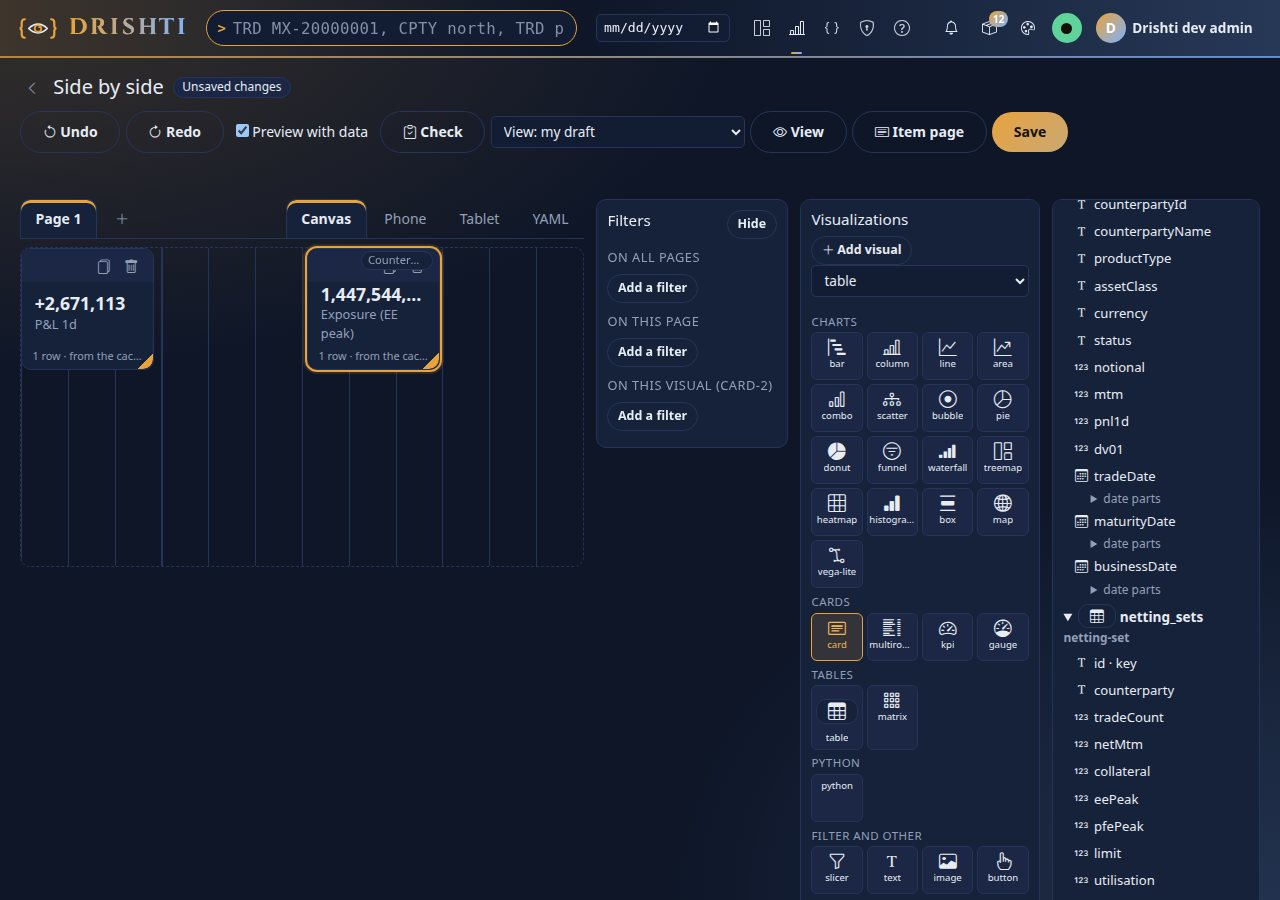
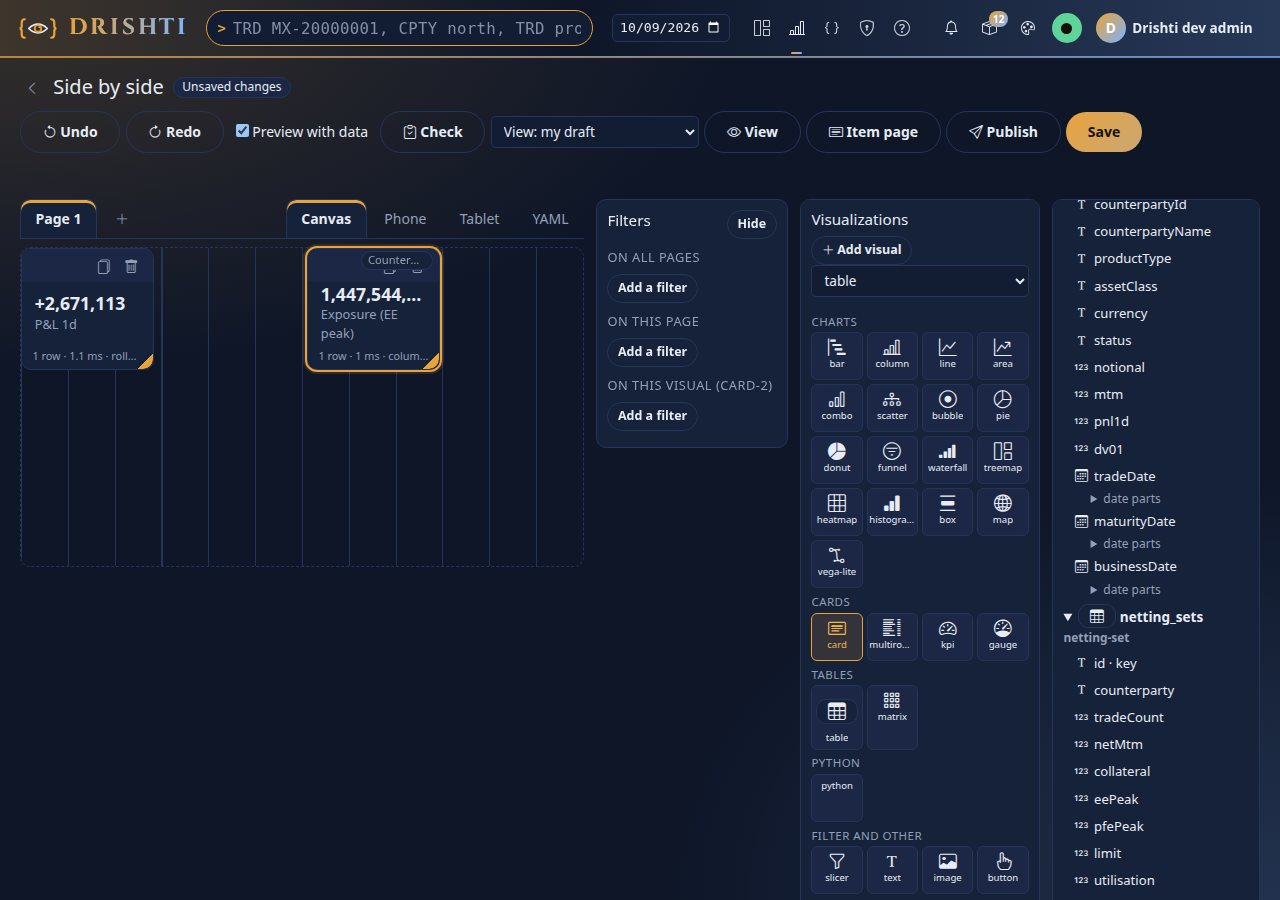
Docs: round 3 and final pass, tutorial 18 lake and composed draft, changelog under 2.1.0, picture 21

diff --git a/tools/docs/shots/t18.py b/tools/docs/shots/t18.py
@@ -237,7 +237,10 @@ def promote(c: Ctx):
     c.page.click("#bxT-python")
     c.page.locator("[data-cells=python] [data-promote]").first.wait_for(timeout=30000)
     print("  promote buttons:", c.page.eval_on_selector_all("[data-cells=python] [data-promote]", "els => els.map(e => e.getAttribute('data-promote'))"))
-    c.page.locator('[data-cells=python] [data-promote="visual"]').nth(1).click()
-    c.page.wait_for_timeout(2500)
-    c.page.evaluate("window.scrollTo(0, 0)")
-    c.save("21-promote-visual.jpg", clip={"x": 240, "y": 56, "width": 1040, "height": 400})
+    button = c.page.locator('[data-cells=python] [data-promote="visual"]').nth(1)
+    button.click()
+    c.page.locator("[data-cells=python] .bi-near [data-promoted-link]").first.wait_for(timeout=30000)      # the answer is beside the button that asked
+    button.scroll_into_view_if_needed()
+    c.page.wait_for_timeout(500)
+    box = c.page.locator("[data-cells=python] .bi-near").first.bounding_box()
+    c.save("21-promote-visual.jpg", clip={"x": 240, "y": max(0, box["y"] - 160), "width": 1040, "height": 400})

diff --git a/CHANGELOG.md b/CHANGELOG.md
@@ -15,13 +15,13 @@
 -->
 # Changelog
 
-## Unreleased
-
+## 2.1.0 — The BI long tail, a multi-day type-ahead index, safe install and uninstall (2026-10-12)
+- **BI adversarial QA, round 3 and the final pass.** *One title:* a dataset, report, board or notebook has the same title on its item, in its header and in its YAML after every save: rename the item and the YAML's `title:` follows, rename the `title:` in the YAML (designer, wizard, item Edit) and the item follows (`BiTitles`, in `updateItem` and `createItem`; Analyse opens a notebook under its item's title). *Private workspaces:* an item in *My workspace* shows **Publish** disabled with "Move it to a shared workspace to publish" and a Move button, and **Publish…** in both designers says the same in place. *Approving:* a steward outside the item's audience who approves gets "Approved and published. It is now visible to its audience; you are not in it." and a link to the inbox, not a script error; an item nobody may see shows only the not-found message. *Analyse:* fits 390 px with long notebook and report titles; opening a notebook restores the Dataset and Notebook selects and its ticked fields; the default ticks include the numeric columns (`mtm`, `pnl1d`, `notional`); a Promote answers beside its button (one message, never also at the top) with an *Open the draft* link, promoting the same cell or slice again offers **Update that draft** or **Save another**; a SQL-promoted report is titled "<dataset title> SQL" with a readable lower-case id; **Promote to a Transform** is shown disabled with "Add a second extract first". *Designers:* **Ctrl+S** saves from the YAML editors (report, board, the dataset wizard's YAML) and never opens the browser's Save dialog; *Saved as a draft* is one message beside the button; the board **Check** summary counts the draft-report warnings the panel lists (and the badge hides at zero); the board toolbar's View select is inline; the Designer's samples list boards as well as reports; a refused drop no longer marks *Unsaved changes*; *Also add* leaves out the main dataset. *Workspaces:* a new **dataset** can also be created by pasting YAML (for experts) next to *Open the dataset wizard*. *Small:* a value that rounds to zero shows `0.00`, never `-0.00`; the top bar's buttons are 44 px on a phone; the business-date box is filled on every page (a failed business-date call from the sign-in page used to be cached for a minute for everyone); the Tutorials card counts the tutorials it finds.
+- **Packs, connectors and artifacts, final pass:** Admin → Packs shows *Changed* and the deploy history in the page's zone with its label (as Connectors and Artifacts do); **Unload** is disabled, with "Needed by ...: unload those first" in the row, while another pack builds on the pack (and the refusal is no longer followed by "the list is out of date"); a pack made by the New pack wizard needs `>=2.0.0` (what its features need), not the version of the server that built it; Artifacts shows a connector "with a warning" at the same level and label as Connectors; "which is not loaded (not loaded)" says it once; **Delete permanently** stays disabled until the exact name is typed.
 - **BI adversarial QA, round 2:** *Refresh now* on a dataset whose data ends before the business date no longer builds an empty layer that every later query then read: it falls back to the latest date the source holds and says `warning: 0 rows for <date>; latest data <date>` (status `warning`), and a query never serves an empty layer as the latest. A double-clicked **Propose** proposes once and tells the reviewers once; **Publish is hidden and refused (DRS-9004) while an item is proposed**; a composed dataset's join that repeats rows is now an **error** (DRS-9015) unless it says `allow-repeat: true` (then a warning, and the Model view marks the join); a dataset over a connector that does not exist is "has errors". Also: the alert prefill name is inside the allowed characters and the rule shows beside the field, the alert form shows the report, page and visual titles, the range slicer shows From and To side by side and hints at an inverted range, a PDF line or area chart is drawn as lines with its table capped (`pdf-chart-rows`), Analyse SQL promote accepts implicit aliases and links the draft, converting a visual uses the styled confirm and clears format keys the new type does not read, the report's Business date shows the top bar day with a *Data as of* note, a frozen designer looks switched off and no longer says *Visual deleted*, a design error card has Retry, YAML syntax errors say the line, column and reason (not `reader`), export status messages replace each other, a certified item has no Promote, a connector due now says *retrying now*, Subscribe errors show beside the button, and the dataset page's messages sit apart from their buttons.
 
 - **Packs and connectors, adversarial QA:** a connector that runs but is down shows *down, retrying* (and one with unreadable lines, or whose dated folders are all after today, *running, with a warning* with the sentence on the row), in the list, the page, the pack's Data source panel and the CLI; the editor shows errors beside Save and on the field, focuses it, disables Save while saving, masks secret fields, says when Test did not try, hides Test and Save on History and shows history times in the page's zone; one way out for a file connector (Uninstall, restorable); Admin → Packs and Connectors poll every 5 seconds and offer Refresh; Sutra problems with file:line on the pack row and page; `pack.yaml` syntax errors say line and column and are not retried; versions are X.Y.Z in the wizard, `pack bundle|make` and the deploy check; no duplicate kept version on a same-version redeploy and no rollback to the running one; the packs list names template and route connectors and fills Changed; Switch off, Unload, Load and Deploy use the styled dialog; a configuration-named pack can only be disabled (said up front); the wizard keeps its work across Back and reload and defaults JSON Lines kinds to the File connector; Admin lists are cards on a phone with the intro folded; each Admin page tells a non-admin its own sentence; an explicitly empty `packs: []` means no packs (documented).
 - **Fixed:** an Analyse Python cell on the server or in the browser threw "show is not a function" (the SQL result drawer shadowed the Python one); the admin BI file links are 44 px on touch; the region-economy sample documents carry a `retrievedAt` (the compile date of the illustrative set); browser tests follow the Chart page, the last-hour line, the rollup name in the live footer and the Vega-Lite visual.
-## 2.1.0 — The BI long tail, a multi-day type-ahead index, safe install and uninstall (2026-10-12)
 - **Added: tutorial 18, Several datasets in one report** (`docs/tutorials/18-several-datasets-in-one-report.md`, 21 pictures from `tools/docs/shots/t18.py`, seven data files in `docs/tutorials/data/`): a report over two datasets with links (a slicer and a click carry across, an unlinked country does not, a wrong ISO-3 to ISO-2 link gives an empty visual), the inflated total of a row join (P&L 5.1 times, exposure 42.8 times) against per-grain sums, a composed dataset with its `DRS-9014`/`DRS-9015` checks, the same as a Python Transform, two readers (rita, hana) filtered before the join, the join in Analyse promoted to a visual or a Transform, and an honest Power BI comparison. All numbers and outputs were captured from a real stack.
 - **Added and fixed: the board designer, "view as readers see it", visual ids, feedback beside controls and Back after sign-in (adversarial QA, deferred items).** (1) The board designer's report list includes **your own draft reports**, marked *(draft)* (`GET /bi/boards/reports`); their tiles draw for the author, say so on their face, and **publishing or proposing a board that names a draft report is refused** (`DRS-9052`, naming the report; force does not help); the same visual added twice warns beside *Add tile* instead of blocking; Check on a board with no tiles says **"add a tile"** in plain words (the empty-page problem is now `this page has no tiles yet: add a tile ...`); dragging a tile by its header or corner keeps the Column/Row/Wide/High fields in step (a browser test drags both). (2) A **View** menu in both designers: *my draft* or *as readers see it (published)*, greyed until published; `GET /bi/items/{id}/published` and `?as=published` read the published version of what a call opens, with the caller's own masks, and the page shows a banner with the version. (3) A **visual id follows its type** on conversion for any made-up id (`card-1`, `slicer-1`, `visual-3`) and the bookmarks, phone and tablet layouts and `tests:` that named the old id follow it (Undo restores both). (4) **Feedback beside the control** for the catalogue and home favourite star, item page actions (propose, publish, approve, reject, withdraw, promote, certify, delete, duplicate, move), workspace delete-selected, add member and the review box, the report page's Export (now fetched, so a refusal is said beside the button), Subscribe and Alert me (a note when the screen's filters were too long to carry), a dataset page's query, refresh and schedule, and the designers' Check and Save. (5) **Back after sign-in:** `GET /login` while signed in answers `303` to `next` or home and is never cached, and the sign-in POST already answers `303`, so Back from the landing page does not show the form again; the sign-in model is unchanged. Docs: BOARDS.md 6, 7, 9, 11, REPORTS.md, BI_GUIDE.md, API_GUIDE.md.
 - **Fixed and added: saving and editing safely in the BI designers and workspaces (adversarial QA).** A save names the saved state it started from (`etag`/`baseEtag`); a stale save is refused with **`DRS-9007`** (409) and the report designer, board designer, Model view, wizard in edit mode and item Edit form offer **Reload theirs / Save mine as a copy / Overwrite with mine**. **Propose, Approve and Publish refuse a report that cannot be drawn** (`DRS-9030`, errors listed; a bi-admin may force it, audited); **one bad visual is one error card** and the others draw (no page-wide `DRS-9034`). Proposed items open read-only with a banner and **Withdraw to edit**; the item page names who can approve and notifies them, hides Edit while proposed, and asks before removing a member (a warning for yourself). Designer: **+ Add visual**, palette drag onto the canvas, a confirmation before a type change drops wells, ids follow the type, **Publish/Propose** as a real action, a collapsible Filters pane, phone panes as tabs and an icon toolbar, double-click a page tab to rename, YAML errors block leaving the YAML tab, a copied sample drops its licence header, a new filter starts on the selected visual's field. Dataset wizard: history per step, a leave guard, a draft kept in the session and restored after a refresh (**Discard draft**), edit mode opens on an overview with jump buttons, errors with a jump link to their step, a sensible default workspace. New report forms take a **Main dataset** plus **Also add**, list unusable datasets greyed with the reason and put **Add dataset** at the top of the Fields pane (`GET /bi/datasets?drafts=1`). Shared helpers put feedback beside the control and disable buttons while a request is in flight; Subscribe keeps the BI links and searches recipients; the shipped workspace no longer shows the server path. [BI_GUIDE](docs/guides/BI_GUIDE.md), [REPORTS.md section 9 and 16](docs/guides/REPORTS.md), [BI_GOVERNANCE.md section 3](docs/guides/BI_GOVERNANCE.md).

diff --git a/docs/tutorials/18-several-datasets-in-one-report.md b/docs/tutorials/18-several-datasets-in-one-report.md
@@ -26,6 +26,14 @@ About 60 minutes.
 - [Tutorial 10](10-first-bi-report.md) done (reports, workspaces, the shipped *Desk P&L vs counterparty exposure* sample) and [tutorial 14](14-python-and-analyse.md) for Python and Analyse. You sign in as the development administrator, who holds `bi-author`.
 - A token for the command line with the `bi:write` scope ([tutorial 1, step 9](01-first-15-minutes.md#step-9--make-a-token-for-the-command-line)); the commands below read it from `DRISHTI_TOKEN`. Step 7 also uses two colleagues; make them in **Admin → Users** ([tutorial 17](17-run-it-in-production.md)): `rita` with a role `risk` (raw power on, BI power `bi`), and `hana` with a role `desk-head` (raw power **off**, BI power `bi`) and **Desk** `DESK-FX`. The shipped `trading-risk` dataset has a row rule for each of those two role names; nothing else about them is special.
 - The console's Python environment from tutorial 1 (it carries `pandas` and `pyarrow`), for steps 6 and 8.
+- **The one-day lake.** Every number below (`P&L 2671113  MTM 138562638  EE 1447544943`, 750 trades, the sector and counterparty rows) was taken on a lake of **one business day**. Tutorial 1 builds ten days, and then the sums are about ten times larger and the trade counts differ. To get the same numbers, make a one-day lake and point the server at it:
+
+  ```bash
+  uv run --with deltalake --with pyarrow --with pyyaml python tools/packgen/banking/make_data.py --lake data/delta-1day --days 1
+  DRISHTI_DELTA_ROOT=data/delta-1day  # then restart the server
+  ```
+
+  With ten days every step still works and every check (the fan-out, the totals that agree, the refusal) holds; only the digits differ.
 - Files in [data/](data/): [two-datasets.report.yaml](data/two-datasets.report.yaml), [wrong-link.report.yaml](data/wrong-link.report.yaml), [cp-pnl-exposure.dataset.yaml](data/cp-pnl-exposure.dataset.yaml), [counterparty-view.report.yaml](data/counterparty-view.report.yaml), [mtm-vs-exposure.python.yaml](data/mtm-vs-exposure.python.yaml), [cp-pnl-exposure-py.dataset.yaml](data/cp-pnl-exposure-py.dataset.yaml) and [two-extracts.notebook.yaml](data/two-extracts.notebook.yaml). Put them in a shared workspace called **Exposure desk** (a report reads *published* datasets; a draft in your private workspace cannot be published).
 
 ## What you will learn
@@ -69,7 +77,7 @@ Open the **Designer**. The start form asks for a **Main dataset** (the report's 
 
 ![The designer's start form: title Side by side, main dataset Trading and counterparty risk, Also add: Counterparty exposure](img/t18/03-new-report.jpg)
 
-A dataset that cannot be used is listed greyed with the reason (*a draft: publish it first*, *has errors: open it*) instead of hidden. Press **Start designing**.
+A dataset that cannot be used is listed greyed with the reason (*a draft: publish it first*, *has errors: open it*) instead of hidden, and **Also add** never offers the dataset you chose as the main one. The form also asks **Workspace**: choose **Exposure desk**. A report you save in **My workspace** is private; it can be drawn and checked there, but a private workspace cannot publish, so its item page shows **Publish** greyed with *Move it to a shared workspace to publish* and a **Move** button, and the designer's **Publish...** says the same in place. Press **Start designing**.
 
 ![The designer with two cards: P&L 1d of the main dataset, and Exposure (EE peak) with a small tag naming the other dataset](img/t18/04-two-cards.jpg)
 
@@ -107,6 +115,8 @@ $ curl -s -X POST -H "Authorization: Bearer $DRISHTI_TOKEN" -H 'Content-Type: ap
     http://localhost:18480/api/v1/bi/items/bi-82bf63b602/publish
 {"id":"bi-82bf63b602","status":"published","publishedVersion":1, ...}
 ```
+
+**Saving and publishing in the designer.** **Save** (or Ctrl+S, also from the YAML tab) stores the draft and says so beside the button, once. A report in a shared workspace is published from the designer's **Publish...** (it saves first if there are unsaved changes) or from its item page; **neither asks for a note**: the note box is on the item page only (the REST call below sends one). A report you started in **My workspace** is moved first: item page, **Move...**, choose **Exposure desk**, **Move**; then **Publish**. On the command line the workspace is part of the URL, so there is nothing to move.
 
 The id is yours to receive; the commands that follow use `bi-fd0d0420d0`, the id this report had on the stack the outputs came from. Find yours with `python3 tools/drishti.py bi catalogue list --workspace exposure-desk`.
 
@@ -215,7 +225,7 @@ This is also why this tutorial's composed dataset is **per counterparty** and no
 
 ## Step 5 · A composed dataset: MTM and exposure in one visual
 
-A **composed dataset** asks each source dataset a question *as the reader*, grouped to the grain you choose, and joins the answers. Here the shared grain is the **counterparty**. In **My workspace** (or your shared workspace) choose **New item**, kind *dataset*, and paste [cp-pnl-exposure.dataset.yaml](data/cp-pnl-exposure.dataset.yaml); or open the dataset wizard ([tutorial 10, step 13](10-first-bi-report.md#step-13--a-dataset-of-your-own-in-the-wizard)). Publish it, then open its page.
+A **composed dataset** asks each source dataset a question *as the reader*, grouped to the grain you choose, and joins the answers. Here the shared grain is the **counterparty**. In **My workspace** (or your shared workspace) choose **New item**, kind *dataset*, press **Paste YAML** (next to *Open the dataset wizard*, which is the default for everyone else), paste [cp-pnl-exposure.dataset.yaml](data/cp-pnl-exposure.dataset.yaml) and press **Create from the YAML**; or open the dataset wizard ([tutorial 10, step 13](10-first-bi-report.md#step-13--a-dataset-of-your-own-in-the-wizard)). Publish it, then open its page.
 
 ![The Built from other datasets section: source pnl is trading-risk by counterparty id, name and sector with MTM, P&L 1d and Trades; source exposure is counterparty-exposure by counterparty id; a left join on counterparty](img/t18/14-composed-dataset.jpg)
 
@@ -259,7 +269,7 @@ The totals are step 1's, to the unit. Now the report [counterparty-view.report.y
 
 ![A report over the composed dataset: cards for MTM, exposure and MTM per exposure, one bar chart with MTM and exposure by sector, and a table of counterparties](img/t18/16-composed-report.jpg)
 
-You should see MTM and exposure **in one visual**, which step 3 could not give you, and the ratio. Without the ids, in the designer, **Make a composed dataset from these** (the Links panel, step 3) writes a first draft of this YAML on the first linked pair for you to read; **Create the draft and review it** is the only thing that saves it.
+You should see MTM and exposure **in one visual**, which step 3 could not give you, and the ratio. Without the ids, in the designer, **Make a composed dataset from these** (the Links panel, step 3) writes a first draft on the first linked pair for you to read; **Create the draft and review it** is the only thing that saves it (into **My workspace**, a private draft you open in the Model view). Be exact about what it drafts: step 3 linked `counterparties.sector`, so the draft is **per sector**, not per counterparty. It names the two sources `trading_risk_1` and `counterparty_exposure_2`, groups each by `sector`, takes **only the first measure** of each dataset, sets `key: [sector]` and joins them left on `sector`. To reach the counterparty YAML above, open the draft's item page, **Edit** its body (or the YAML in the Model view) and: change each `by:` to the counterparty id (and, for the first source, name and sector), set `key: [counterparty]`, list the measures you want (`MTM`, `P&L 1d as Desk P&L`, `Trades`; `Exposure (EE peak)`, `Exposure (PFE peak)`), rename the sources `pnl` and `exposure` and the dataset `cp-pnl-exposure`, and add the `MTM per exposure` measure. Or skip the editing and paste [cp-pnl-exposure.dataset.yaml](data/cp-pnl-exposure.dataset.yaml) with **Paste YAML**. Then move it to **Exposure desk** and publish it, as for a report.
 
 **The checks.** A composed dataset is checked on the dataset page, by `POST /datasets/validate`, and when you publish. Change the join to the sector and make the second source finer than the first (the draft is in the picture below): the page marks it **has errors** and prints the refusal, so it cannot be saved as a good dataset or published:
 
@@ -373,7 +383,7 @@ When you do not yet know the question, work it out in **Analyse** before you bui
 
 ![After promoting: Python visual draft saved in your workspace: Two extracts, joined the wrong way and the right way (visual)](img/t18/21-promote-visual.jpg)
 
-You should see `Python visual draft saved in your workspace`, with the note that the cell's `df` became the function's `table`, that a visual must return an ECharts option, SVG or PNG, and that nothing is published for you. Check it with **Check the Python** on the item page and publish it ([tutorial 14](14-python-and-analyse.md)). Be exact about what was kept: a visual reads **the one table** of its dataset, so the draft keeps `df` (the first extract); a cell that reads `extract("exposure")` as well belongs in a Transform instead. The cell has three promotions, all drafts you review: *a measure*, *a visual* and **Promote to a Transform** (it becomes the function of step 6, each `extract("name")` a parameter of `run(...)`, the inputs the extracts' datasets in order). The path from an idea to a shared number is therefore: explore in Analyse, **promote to a Transform**, publish, write the derived dataset (or rewrite the join in YAML as a composed one), build the report. Analyse itself is the console's (the first extract and further extracts, [ANALYSE.md section 2](../guides/ANALYSE.md#2-the-extract)); there is no `tools/drishti.py` command for it, and step 4 shows the REST call.
+You should see `Python visual draft saved in your workspace` **beside the button you pressed** (with an *Open the draft* link; pressing the same promotion again offers **Update that draft** or **Save another**), with the note that the cell's `df` became the function's `table`, that a visual must return an ECharts option, SVG or PNG, and that nothing is published for you. Check it with **Check the Python** on the item page and publish it ([tutorial 14](14-python-and-analyse.md)). Be exact about what was kept: a visual reads **the one table** of its dataset, so the draft keeps `df` (the first extract); a cell that reads `extract("exposure")` as well belongs in a Transform instead. The cell has three promotions, all drafts you review: *a measure*, *a visual* and **Promote to a Transform** (it becomes the function of step 6, each `extract("name")` a parameter of `run(...)`, the inputs the extracts' datasets in order). The path from an idea to a shared number is therefore: explore in Analyse, **promote to a Transform**, publish, write the derived dataset (or rewrite the join in YAML as a composed one), build the report. Analyse itself is the console's (the first extract and further extracts, [ANALYSE.md section 2](../guides/ANALYSE.md#2-the-extract)); there is no `tools/drishti.py` command for it, and step 4 shows the REST call.
 
 ## Step 9 · How this compares with Power BI
 

diff --git a/docs/guides/BOARDS.md b/docs/guides/BOARDS.md
@@ -330,12 +330,12 @@ The tiles' data comes from the report endpoints (`POST /api/v1/bi/reports/{id}/q
 
 * **The grid.** A 12-column grid of the board's tiles for the current page. Drag a tile by its header to move it, drag the corner to resize it, or focus it and use the arrow keys (Shift with the arrows resizes) and Delete; tiles never overlap (the ones in the way move down). Each tile shows the report, visual and type it names and its alert in words; one that names a report or visual you cannot open is marked.
 * **Pages.** The page tabs add a page (up to 20), and *This page* renames, moves earlier or later, or deletes it.
-* **Add a tile.** Choose a report (the ones you may open, then **your own drafts, each marked *(draft)***) and one of its visuals (slicers are not offered), then *Add tile*: it lands at the bottom of the page in a size that suits its type. If the report has the same visual id on two pages the tile says which. A tile on a draft report says so on its face, and **Check** warns that the board cannot be published until that report is. Adding a visual that is already on the board is allowed, with a note beside *Add tile* ("already on the board": two tiles of one visual show the same thing); it is a warning, never a block.
+* **Add a tile.** Choose a report (the ones you may open, then **your own drafts, each marked *(draft)***) and one of its visuals (slicers are not offered), then *Add tile*: it lands at the bottom of the page in a size that suits its type. If the report has the same visual id on two pages the tile says which. A tile on a draft report says so on its face, and **Check** warns that the board cannot be published until that report is. Adding a visual that is already on the board is allowed: the tile is added at once and a note appears beside *Add tile* ("Added, but this visual is already on the board (Page 1): two tiles of one visual show the same thing"); it is a note, never a block.
 * **Place and size by hand or by the numbers.** Dragging a tile by its header or its corner and the *Column / Row / Wide / High* fields are the same edit: after a drag the fields show where the tile is, and a number typed there moves the tile (Undo steps either back).
 * **The selected tile** (right pane): its title, its place on the grid (column, row, wide, high) and its **alert**: the number it watches, amber and red thresholds, the **hysteresis**, and whether to tell the people who read the board when it turns (red, or amber or red). *Apply to the tile* writes it; *Remove the alert* clears it.
 * **Kiosk.** *Turn the pages every (seconds)* sets `rotate:`, 5 to 3600; blank turns no pages by itself (the kiosk button still fills the screen).
 * **YAML.** The YAML tab shows the same draft as text, written by the server (`POST /boards/format`), and a change there shows on the grid once it parses; each is the other's view. Board-wide settings the designer has no field for (`notify:` defaults) are kept as they are.
-* **Check, Save, Publish.** *Check* lists the problems (a tile that names a report or visual that is not there, a bad threshold, `DRS-9052`/`9053`); on a board with no tile at all it says **"This board has no tiles yet: add a tile"** and how, not a count of errors. Check and Save answer **beside their own button** as well as in the line at the top (*Saved as a draft at 14:02...*, *1 error: see the list*). *Save* stores the draft (Ctrl+S); undo and redo (Ctrl+Z, Ctrl+Y) step through the changes. A board is **published like any other item**, from its item page (*Publish...*): in a workspace that needs review it is proposed, reviewed and approved, and the audit trail records it ([BI_GOVERNANCE.md](BI_GOVERNANCE.md)). Nothing is published by saving.
+* **Check, Save, Publish.** *Check* lists the problems (a tile that names a report or visual that is not there, a bad threshold, `DRS-9052`/`9053`); on a board with no tile at all it says **"This board has no tiles yet: add a tile. Choose a report and one of its visuals on the right, then press Add tile."** and how, not a count of errors. Check and Save answer **beside their own button, once** (*Saved as a draft at 14:02...*, *1 error, 1 warning*), not also in the line at the top. The summary counts what the panel lists, the warnings about tiles on a draft report included, and the count on the Check button is hidden when there is nothing to count. *Save* stores the draft (Ctrl+S); undo and redo (Ctrl+Z, Ctrl+Y) step through the changes. A board is **published like any other item**, from its item page (*Publish...*): in a workspace that needs review it is proposed, reviewed and approved, and the audit trail records it ([BI_GOVERNANCE.md](BI_GOVERNANCE.md)). Nothing is published by saving.
 * **View: my draft, or as readers see it.** The *View* menu beside the *View* button chooses which version the page opens: **my draft** (what you are editing, as saved) or **as readers see it (published)**, which is greyed until the board has been published. The published page shows a banner (*Showing the published version 3, the way readers see it; your draft has changes that are not shown*) and a link *Back to my draft*; the data on it is drawn with your own masks and row rules, standing in for the reader's.
 
 On a phone every control is at least 44 px and the panes stack under the grid.

diff --git a/docs/guides/ANALYSE.md b/docs/guides/ANALYSE.md
@@ -170,9 +170,11 @@ A notebook may also carry the catalogue's keys (`sample`, `tags`, `endorsement`,
 
 ## 7. Promote
 
+Every promotion answers **beside the button you pressed** (one message, with an *Open the draft* link), not at the top of the page. Pressing the same promotion again for the same cell or slice does not make a duplicate: it offers **Update that draft** (the draft is written again) or **Save another**. A SQL cell promoted to a new report is titled *<dataset title> SQL* and gets a readable lower-case id. A notebook has one title: the item's title and the `title:` of its YAML always agree, whichever you rename; opening a notebook restores the Dataset and Notebook choices and the ticked fields.
+
 Promoting writes a **draft** item in your workspace; nothing is published.
 
-* **A Python cell that joins extracts to a Transform** (*Promote to a Transform*, shown when the notebook has further extracts): each `extract("name")` becomes a parameter of `run(...)`, a use of `df` becomes the first extract, the cell's `result` is returned, and the draft's `inputs` are the extracts' datasets, in order. It is a draft **Python item with `interface: transform`** ([PYTHON_BI.md section 13](PYTHON_BI.md#13-transforms-a-table-in-a-table-out)); check it, publish it, then write the derived dataset that names it ([DATASETS.md section 11.2](DATASETS.md#112-derived-datasets-a-python-transform)): the promotion says so in its notes. `result` must be a pandas DataFrame with column names of letters, digits and underscore.
+* **A Python cell that joins extracts to a Transform** (*Promote to a Transform*, shown greyed with "Add a second extract first" until the notebook has further extracts): each `extract("name")` becomes a parameter of `run(...)`, a use of `df` becomes the first extract, the cell's `result` is returned, and the draft's `inputs` are the extracts' datasets, in order. It is a draft **Python item with `interface: transform`** ([PYTHON_BI.md section 13](PYTHON_BI.md#13-transforms-a-table-in-a-table-out)); check it, publish it, then write the derived dataset that names it ([DATASETS.md section 11.2](DATASETS.md#112-derived-datasets-a-python-transform)): the promotion says so in its notes. `result` must be a pandas DataFrame with column names of letters, digits and underscore.
 
 ![After promoting the join cell: "Python transform draft saved in your workspace: ..."](../tutorials/img/t14/15-promote-transform.jpg)
 

diff --git a/docs/guides/DATASETS.md b/docs/guides/DATASETS.md
@@ -797,7 +797,7 @@ All are `sample: true`. The composed and the derived dataset give the same table
 
 ## 12. Build a dataset in the browser: the wizard
 
-A business user builds a dataset without typing YAML: **Datasets → New dataset (guided)** (`/bi/datasets/new`). It is also opened by **My workspace → New item → dataset** (the workspace is passed along, so the draft is saved there) and by the designer's start page when no dataset exists, and **Edit in the wizard** on a dataset's page (`/bi/datasets/new?edit=<item id>`) opens a draft you may edit. It needs the `bi-author` power.
+A business user builds a dataset without typing YAML: **Datasets → New dataset (guided)** (`/bi/datasets/new`). It is also opened by **My workspace → New item → dataset → Open the dataset wizard** (the same form has **Paste YAML**, for experts: a whole dataset document pasted and saved as a draft) (the workspace is passed along, so the draft is saved there) and by the designer's start page when no dataset exists, and **Edit in the wizard** on a dataset's page (`/bi/datasets/new?edit=<item id>`) opens a draft you may edit. It needs the `bi-author` power.
 
 The wizard keeps the dataset as one document and writes the same YAML sections 1 to 11 describe; every step edits that document in place, so **a key the wizard has no control for is kept and written out again** (`security:`, `tests:`, `layout:`, `rollups:`, a Python measure). Comments in an original file are not kept. The steps:
 

diff --git a/docs/tutorials/11-bi-that-runs-itself.md b/docs/tutorials/11-bi-that-runs-itself.md
@@ -58,7 +58,7 @@ refresh: "business-days 06:30"      # a schedule (daily 06:00, hourly, cron ...)
 ```
 
 The words are the ones of a scheduled report ([tutorial 9](09-reports.md)): `daily 06:00`, `weekdays 07:00`, `business-days 06:30` (skips holidays of the server's calendar), `hourly`, `cron ...`, or `after-load`. A table can have its own: `tables.trade.refresh: { schedule: "0 */15 * * *" }`.
-Put the file in a workspace (**My workspace → New item**, kind *dataset*, paste it, **Save draft**; move it to `Economics desk`; **Publish**: [tutorial 10](10-first-bi-report.md) step 7). Open the dataset and scroll to **Refresh**.
+Put the file in a workspace (**My workspace → New item**, kind *dataset*, **Paste YAML** (the button next to *Open the dataset wizard*), paste it, **Create from the YAML**; move it to `Economics desk`; **Publish**: [tutorial 10](10-first-bi-report.md) step 7). Open the dataset and scroll to **Refresh**.
 
 ![The Refresh section: the dataset, schedule business-days 06:30, a status of waiting for the scheduler](img/t11/01-refresh.jpg)
 
